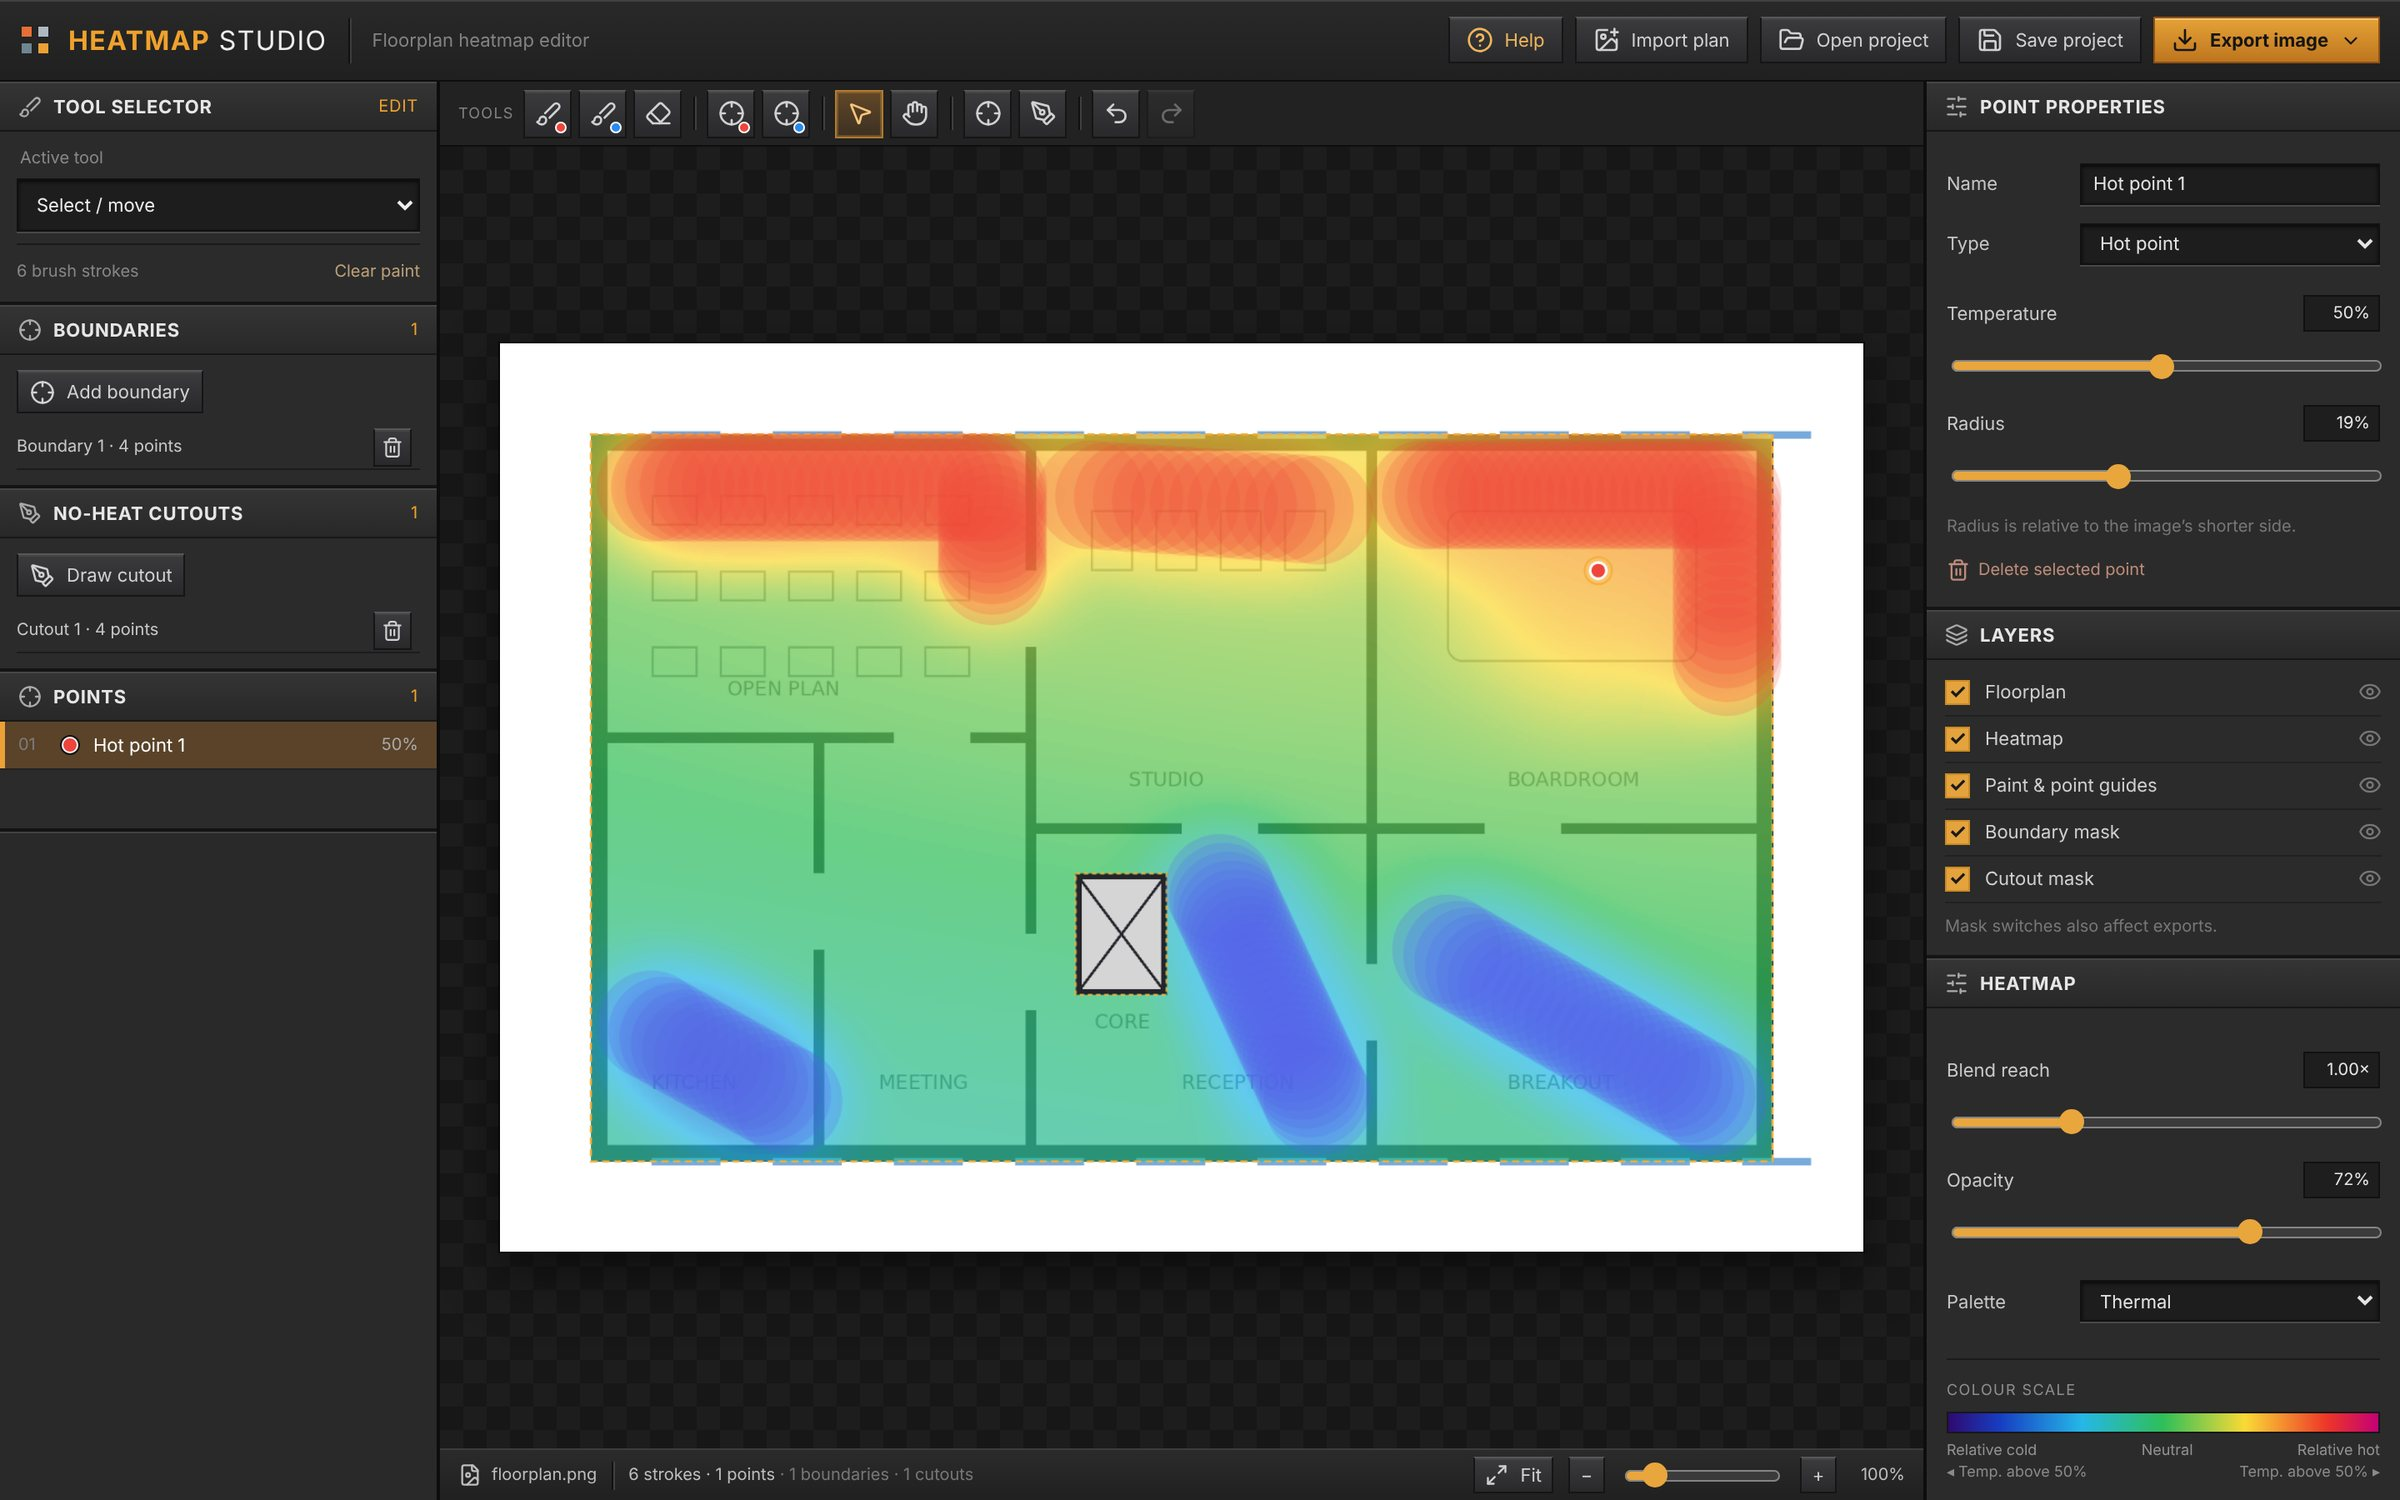
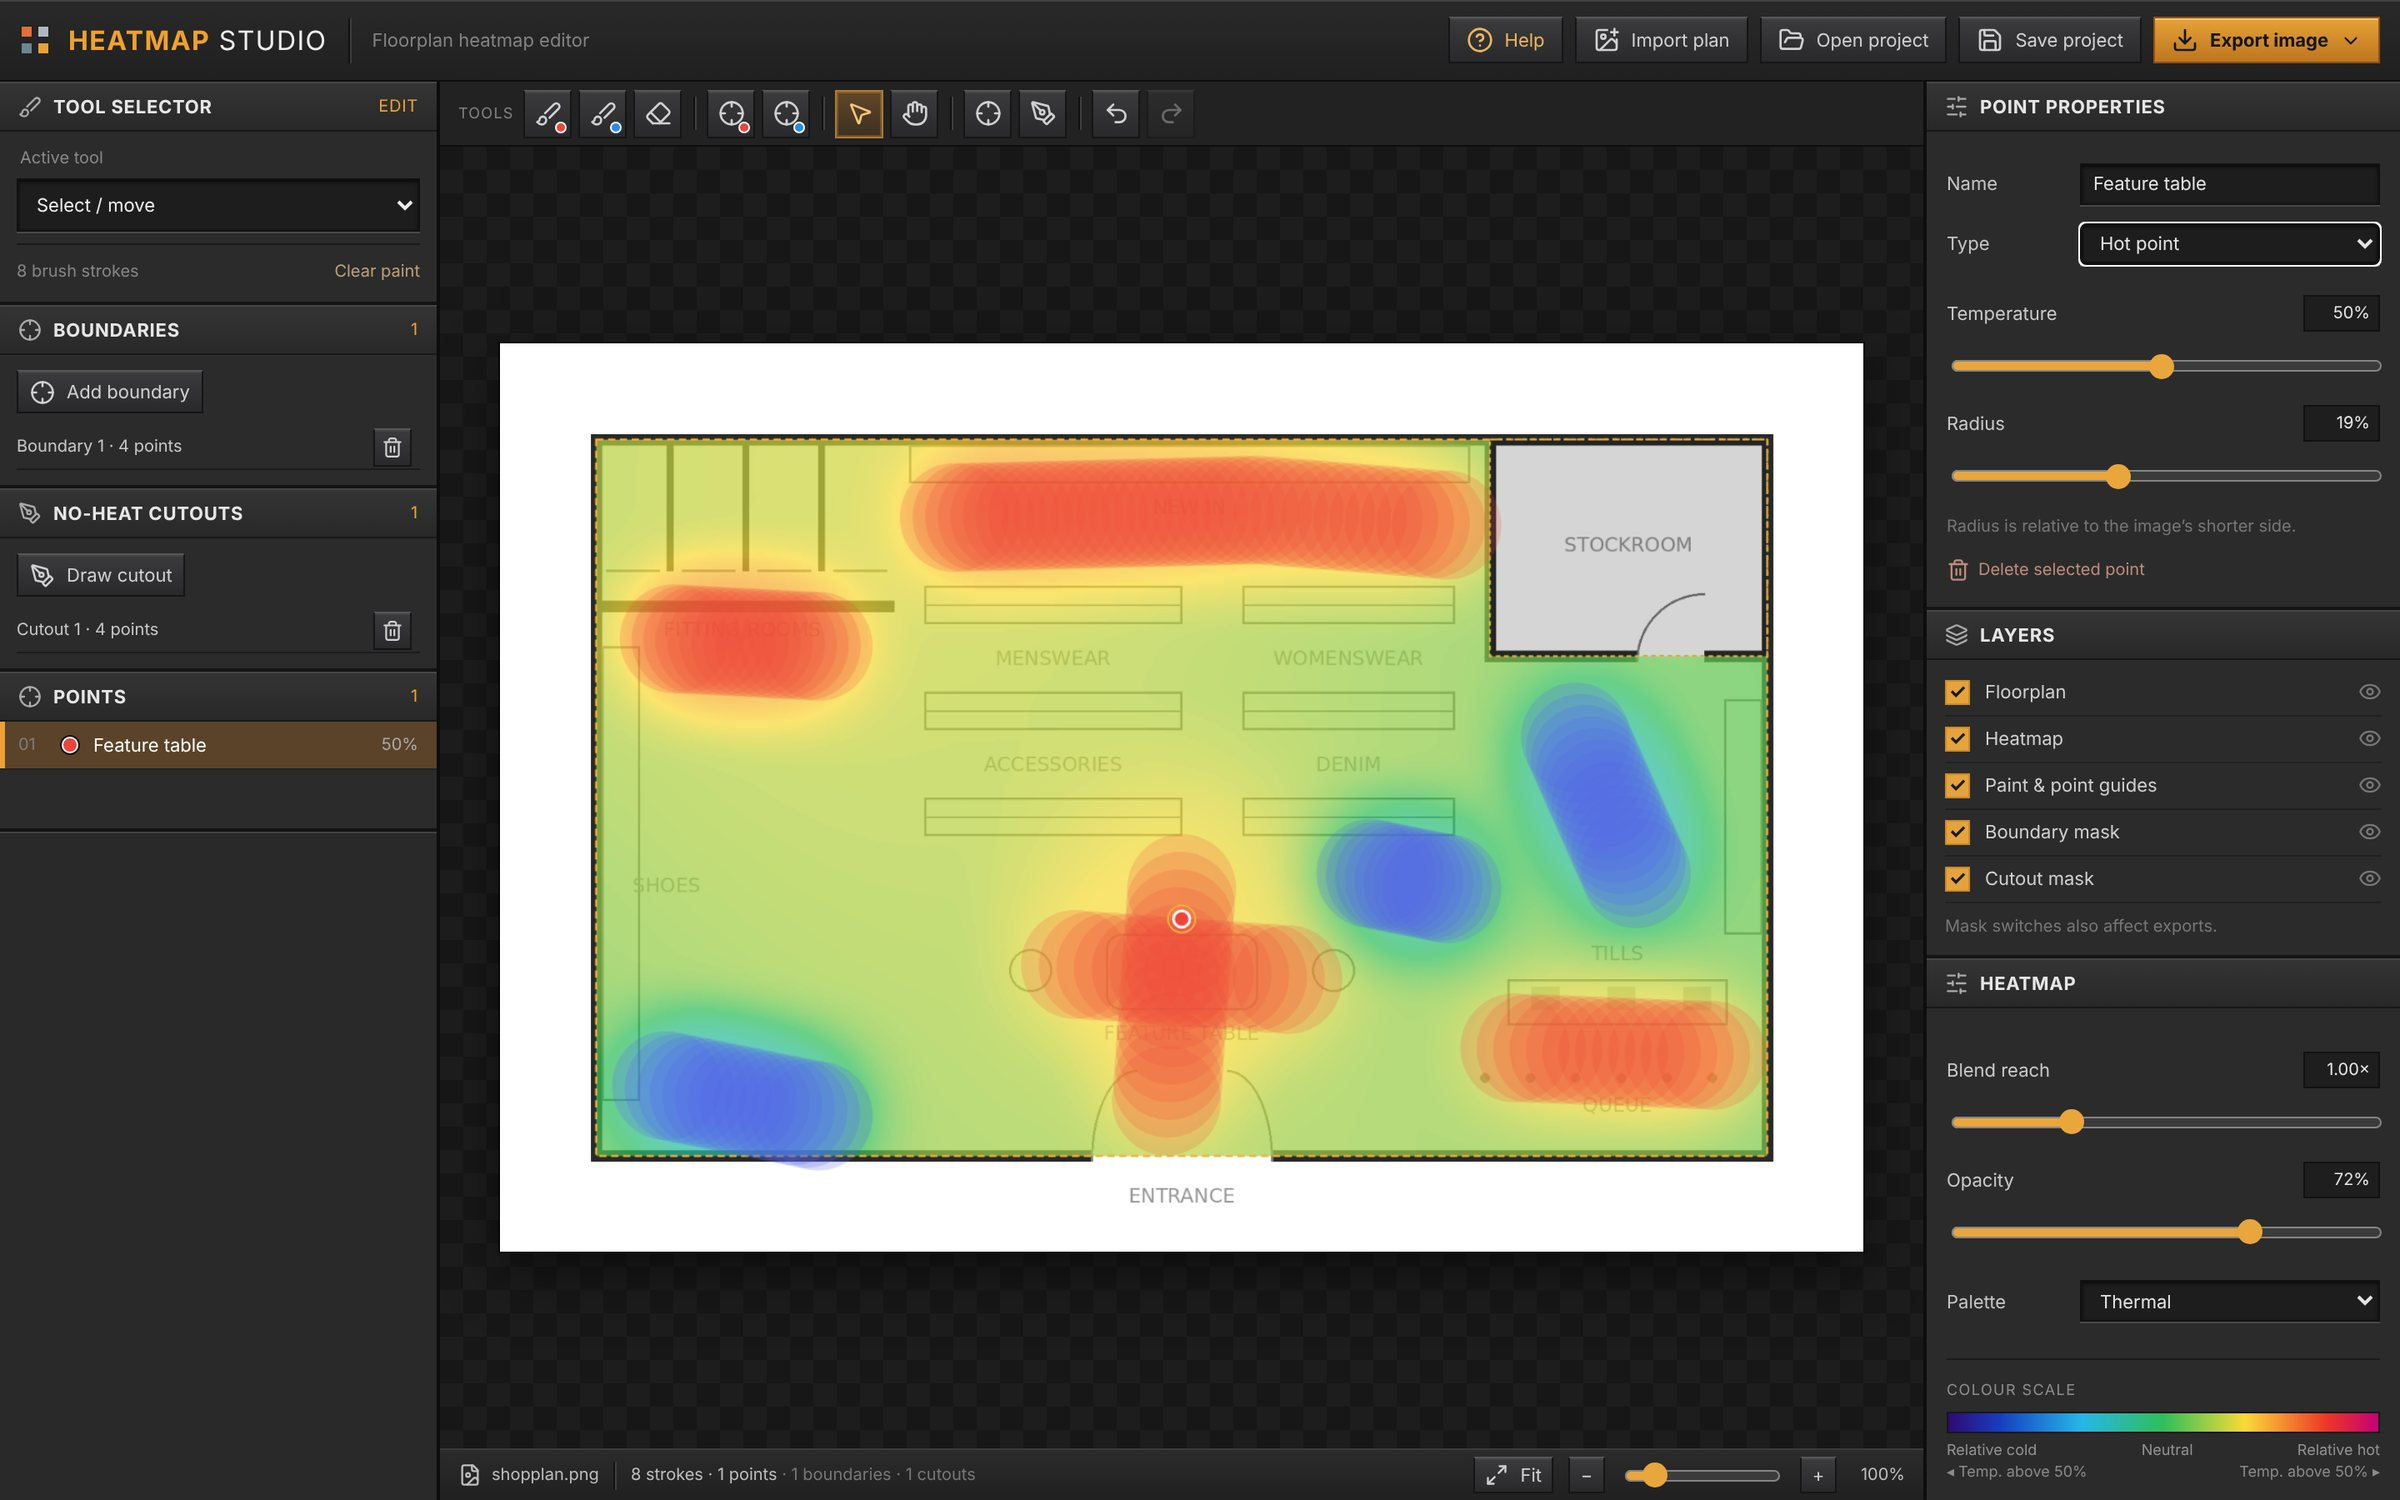
Use Josh's own stories on the experiment case studies
Heatmapper is re-shot on a sample shop floor plan to match the retail
client brief.

Claude-Session: https://claude.ai/code/session_013uaypuQhCWXEXMx8c5D6eg

diff --git a/src/data/caseStudies.ts b/src/data/caseStudies.ts
@@ -503,18 +503,18 @@ const allCaseStudies: CaseStudy[] = [
   {
     slug: 'cinesnap',
     title: 'Cinesnap',
-    description: 'A browser tool that scans a film for its cuts, so you can grab a clean still from any shot.',
+    description: 'An in-house tool for pulling clean, full-quality stills from films and CGI renders.',
     background: '#efe6dc',
     brief:
-      'Pulling stills from a film usually means scrubbing a timeline by hand, and it is easy to land a frame or two away from the shot you wanted.',
+      'At work I often get 4K CGI renders, or a finished edit from a client or another company, and need stills from them for a brochure or website. Scrubbing a timeline by hand is slow, and a screen grab rarely gives you the full-quality frame.',
     idea:
       'Let the app find the cuts first. A quick scan splits the film into scenes and shots, so you jump straight to a shot and step frame by frame to the exact still.',
     whatIDid: [
+      'Designed and built it on my own, with AI',
       'A three-step flow: import and scan, capture, then review and export',
       'Scene and cut detection with adjustable sensitivity and scan speed',
       'Frame stepping, with a strip of the frames either side of the playhead',
-      'Split screen and stacked layouts, and shortcuts you can remap',
-      'Stills named by timecode, downloaded one at a time or as a zip',
+      'Stills saved as full-resolution PNGs, named by timecode, one at a time or as a zip',
     ],
     work: [
       {
@@ -553,22 +553,23 @@ const allCaseStudies: CaseStudy[] = [
         caption: 'Review. Each still is named by its timecode, ready to download on its own or all together as a zip.',
       },
     ],
-    result: 'Live on the web. It runs in the browser, so the film never leaves your computer.',
+    result:
+      'Used in-house for brochure and website stills. It runs in the browser, so client films never leave the computer.',
     url: 'https://cinesnap-eight.vercel.app/',
   },
   {
     slug: 'heatmapper',
     title: 'Heatmapper',
-    description: 'A browser editor for painting hot and cold zones onto a floorplan and exporting a clean heatmap.',
+    description: 'A browser tool for mapping how shoppers move through a store and where they linger, made for a retail design client.',
     background: '#e3efe9',
     brief:
-      'A heatmap over a floorplan is a quick way to show where a space runs hot or cold, but making one by hand is slow and hard to keep tidy.',
+      'A client designing shop floors needed a way to show customer circulation and highlight areas of dwell time while a layout was still at the strategy stage.',
     idea:
-      'Paint it like a picture. Hot and cold brushes mark the extremes, the app blends everything in between into a smooth gradient, and the floor outline keeps it inside the walls.',
+      'Paint it like a picture. Hot brushes mark where people linger, cold ones where they pass straight by, and the app blends the rest into a smooth map that stays inside the walls.',
     whatIDid: [
-      'Hot and cold brushes, an eraser, and exact hot or cold points',
-      'Floor boundaries, plus no-heat cutouts for cores and shafts',
-      'Palette, blend and opacity controls',
+      'Designed and built it on my own, with AI',
+      'Hot and cold brushes, an eraser, and exact points for key spots',
+      'Floor boundaries, plus cutouts for stockrooms and other no-go areas',
       'Export as a combined PNG or a transparent overlay, at the plan’s own size',
       'Project files you can reopen, and a guided tour on a first visit',
     ],
@@ -577,49 +578,53 @@ const allCaseStudies: CaseStudy[] = [
         images: [
           {
             src: heatMasked,
-            alt: 'Heatmap Studio with an office floorplan: red along the top rooms, blue strokes lower down, green in between, a floor boundary around the plan and a cutout over the central core.',
+            alt: 'Heatmap Studio with a shop floor plan: red around the feature table, new-in wall, fitting rooms and tills, blue in the quiet corners, a floor boundary around the shop and the stockroom cut out.',
           },
         ],
         columns: 1,
-        caption: 'A floor boundary keeps the heat inside the plan, and a cutout keeps the core clear.',
+        caption:
+          'Dwell time around the feature table, the new-in wall, the fitting rooms and the tills, with quieter corners in blue. A cutout keeps the stockroom clear.',
       },
       {
         label: 'Process',
         images: [
           {
             src: heatTour,
-            alt: 'The guided tour on a first visit, highlighting the brush controls over a dimmed floorplan.',
+            alt: 'The guided tour on a first visit, highlighting the brush controls over a dimmed shop floor plan.',
           },
           {
             src: heatPainted,
-            alt: 'The floorplan after painting, with hot red areas along the top and cold blue strokes across the lower rooms.',
+            alt: 'The shop plan after painting, with hot strokes at the busy spots and cold strokes in the quiet corners.',
           },
         ],
-        caption: 'A short tour shows the tools on a first visit. Then paint the hottest and coldest areas and the app fills in the rest.',
+        caption: 'A short tour shows the tools on a first visit. Then paint the busiest and quietest areas and the app fills in the rest.',
       },
       {
         images: [
           {
             src: heatExport,
-            alt: 'The exported heatmap: the office plan with a smooth red, yellow, green and blue gradient and no editing guides.',
+            alt: 'The exported heatmap: the shop plan with warm areas at the fitting rooms, new-in wall and entrance, cool corners, and no editing guides.',
           },
         ],
         columns: 1,
-        caption: 'The exported PNG, at the plan’s own size with the editing guides left out. The plan is a sample made for this page.',
+        caption: 'The exported PNG, at the plan’s own size with the editing guides left out. The shop plan is a sample made for this page.',
       },
     ],
-    result: 'Live on the web. Plans and projects stay on your computer, and nothing is uploaded.',
+    result:
+      'Made for a retail design client’s strategy work on shop floors. Plans and projects stay on the computer, and nothing is uploaded.',
     url: 'https://heatmapper-mu.vercel.app/',
   },
   {
     slug: 'sudokurace',
     title: 'Sudoku Race',
-    description: 'Head-to-head Sudoku in the browser. Share a room code and race a friend to fill the grid, or practise alone.',
+    description: 'Head-to-head Sudoku for the studio. Share a room code and race your colleagues to fill the grid.',
     background: '#f3ede0',
-    brief: 'Sudoku is a solo game. This turns it into one you can race a friend at, live, with nothing to install.',
+    brief:
+      'Something to brighten the mornings when we got into work early, or the rainy days when we couldn’t get out to stretch our legs.',
     idea:
       'Treat it like a race. A track above the grid shows how far each player has got, and help such as a solve costs points, so speed and skill both count.',
     whatIDid: [
+      'Designed and built it on my own, with AI',
       'Match setup: invite friends with a room code, or practise alone',
       'Four modes: Standardoku, Countdown, Domination and Sabotage',
       'A live race track showing every player’s progress',
@@ -665,7 +670,7 @@ const allCaseStudies: CaseStudy[] = [
         caption: 'The Nighttime theme, and the finish.',
       },
     ],
-    result: 'Live on the web. Matches run directly between browsers, with no accounts.',
+    result: 'Played in the studio on early mornings and rainy days. Matches run directly between browsers, with no accounts.',
     url: 'https://soduku-race.vercel.app/',
   },
 ];

diff --git a/src/data/projects.ts b/src/data/projects.ts
@@ -151,7 +151,7 @@ export const experiments: Experiment[] = [
   {
     title: 'Heatmapper',
     url: 'https://heatmapper-mu.vercel.app/',
-    description: 'Paint hot and cold zones onto a floorplan and export the heatmap.',
+    description: 'Maps shop floor circulation and dwell time on a floorplan.',
     caseStudy: 'heatmapper',
   },
   {
